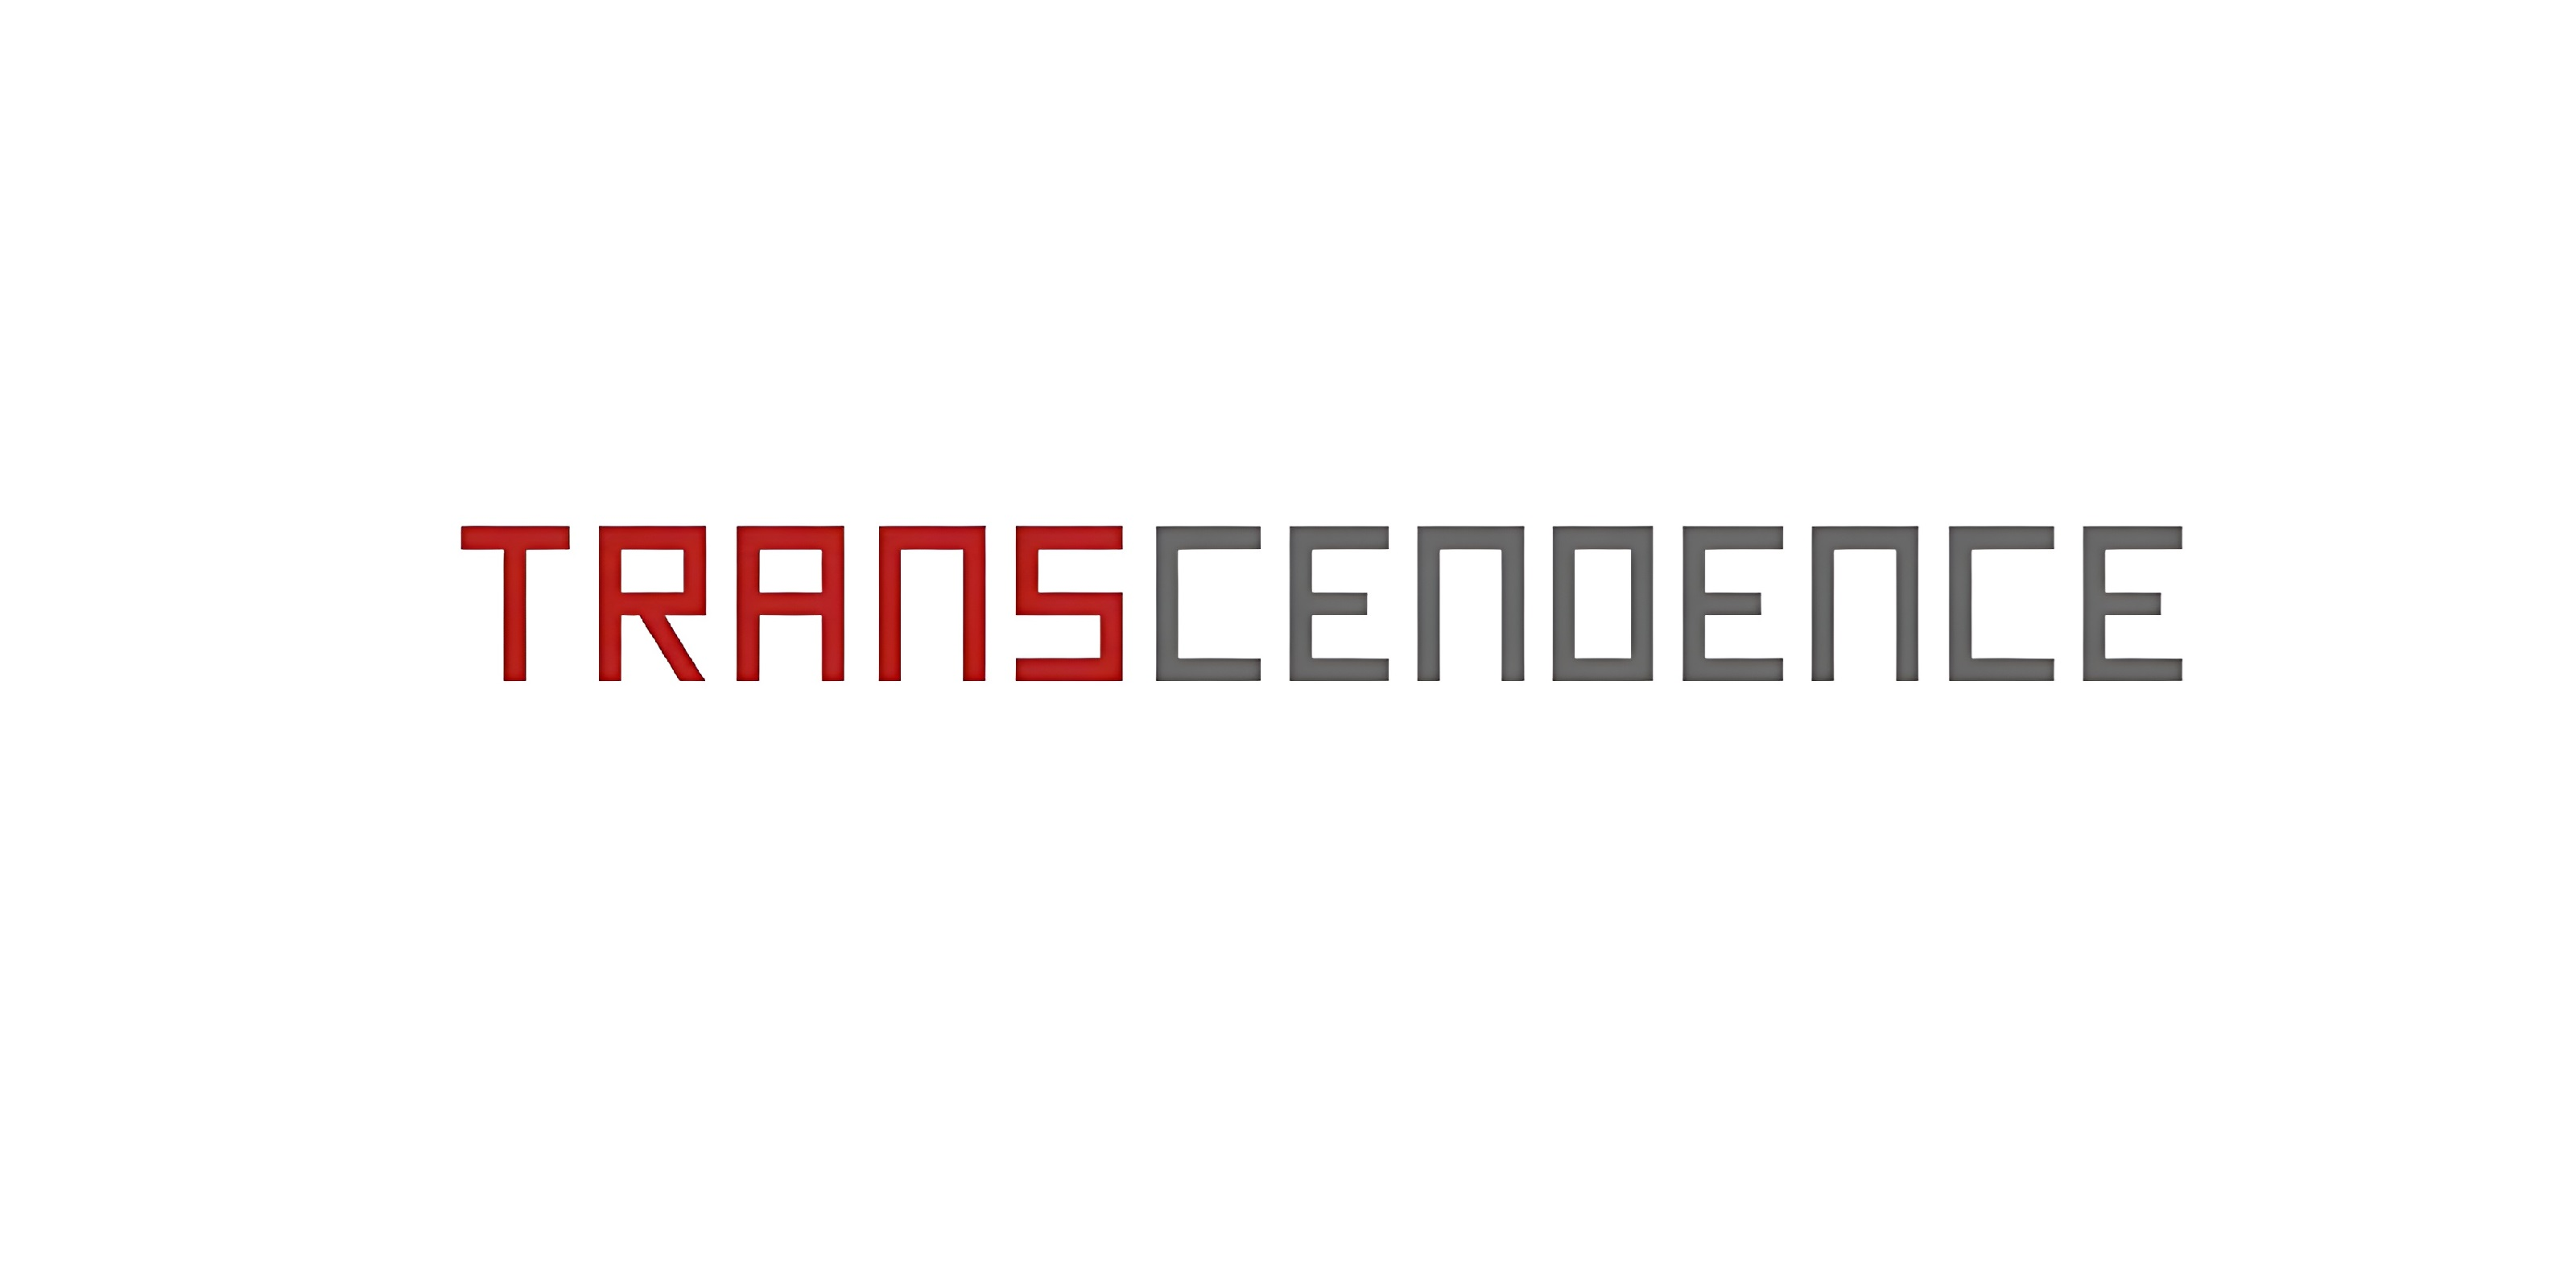
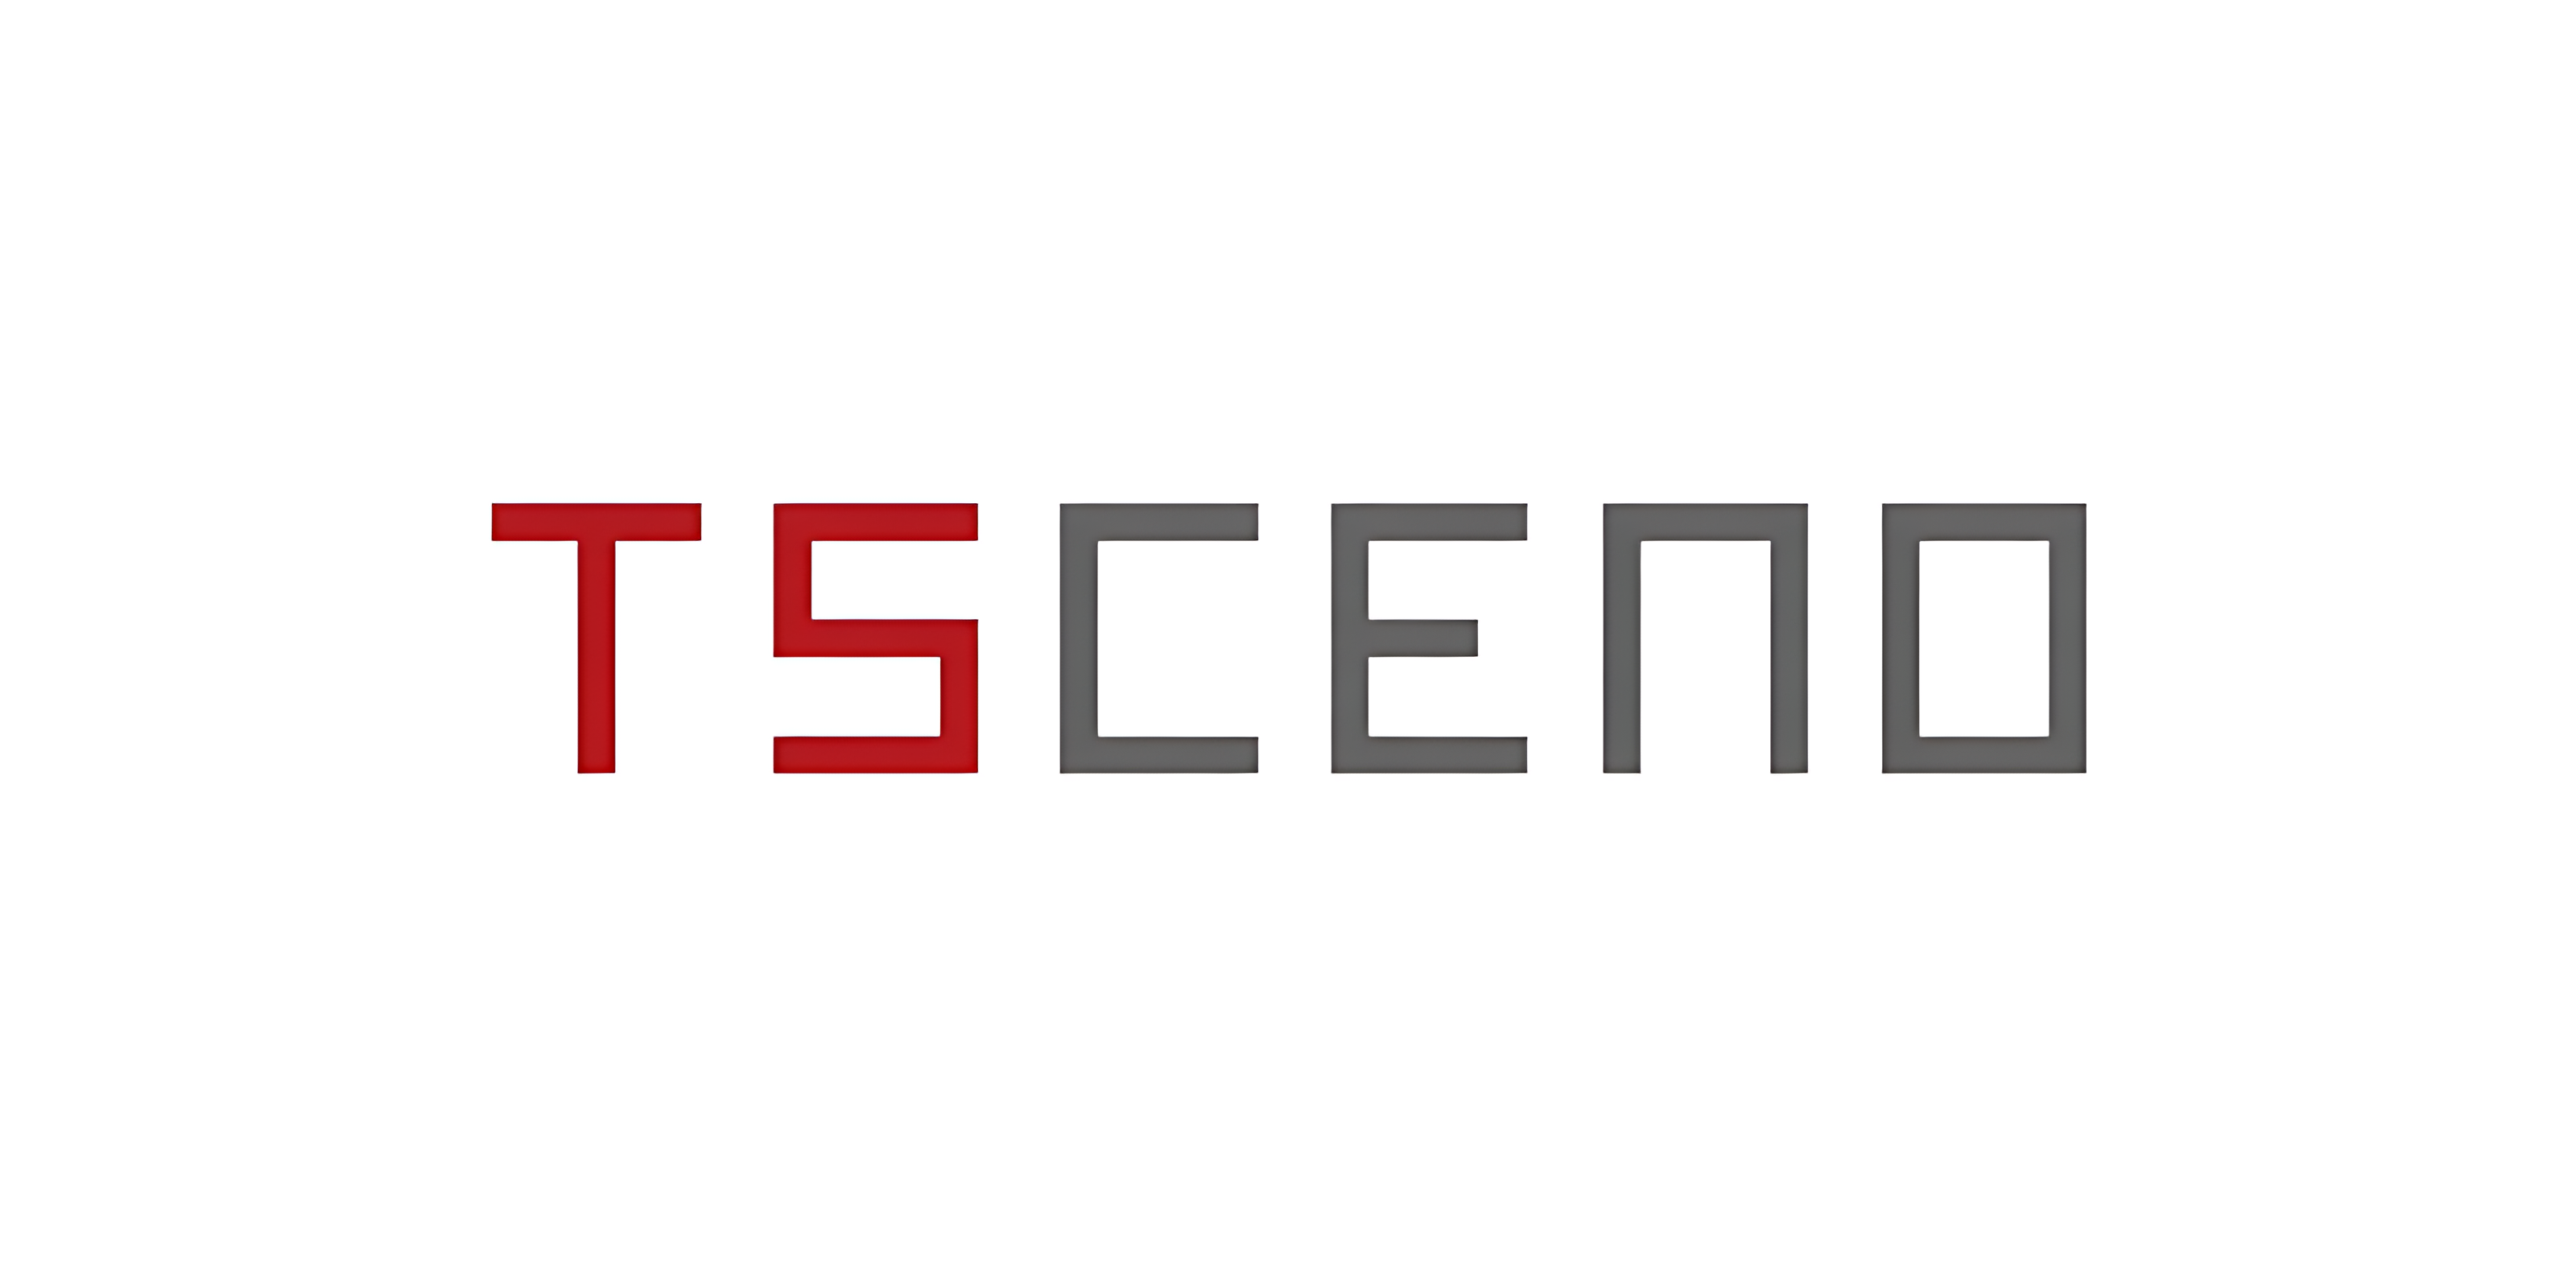
complete app

Changed region(s): [[0.1562, 0.375, 0.8438, 0.625]]

diff --git a/custom_video_player.html b/custom_video_player.html
@@ -236,7 +236,7 @@
         muted 
         loop 
         preload="auto" 
-        src="ulmind_logo.mp4">
+        src="dluongta_logo.mp4">
         <track kind="captions" srclang="en" label="English" src="caption_logo.vtt">
       </video>
       

diff --git a/galaxy_love.html b/galaxy_love.html
@@ -78,7 +78,7 @@
         let initialZoom = zoom;
         let rotX = 1.8, rotY = 0;
 
-        const imageSources = ["luen_logo.png", "hexagon-main.png", "luen-1.jpg"];
+        const imageSources = ["luen_logo.png", "hexagon-main.png", "luen.jpg"];
         
         const RINGS = [
             { text: "DINH ", radius: 220, tilt: -0.8, speed: 1.2, color: "#ff6200" },